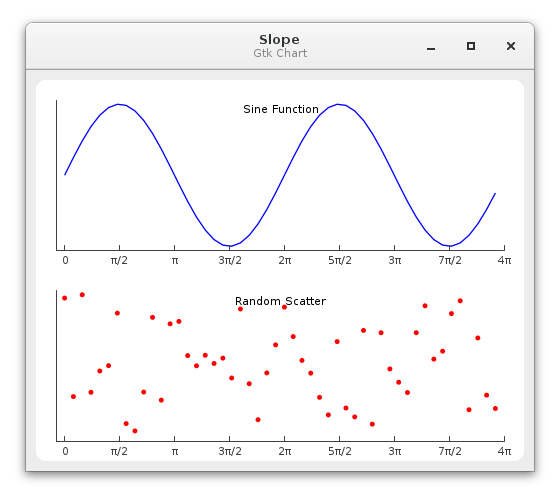
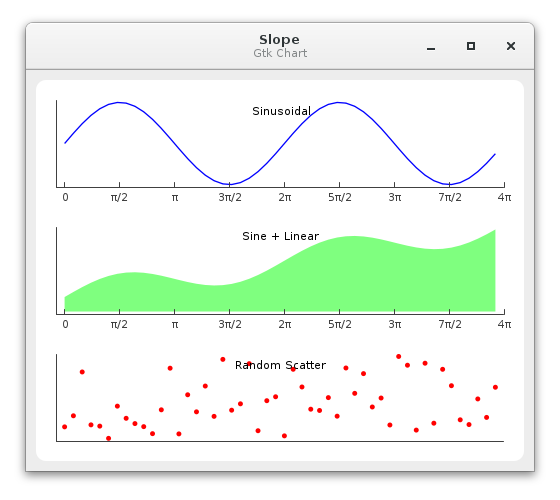
Improved long example

diff --git a/demos/complete.c b/demos/complete.c
@@ -40,11 +40,11 @@ int main(int argc, char *argv[])
 {
     GtkWidget *chart;
     SlopeFigure *figure;
-    SlopeScale *scale1, *scale2;
-    SlopeItem *series1, *series2;
+    SlopeScale *scale1, *scale2, *scale3;
+    SlopeItem *series1, *series2, *series3;
     SlopeItem *axis;
     SlopeXyAxisSampler *sampler;
-    double *x, *y1, *y2;
+    double *x, *y1, *y2, *y3;
 
     gtk_init(&argc, &argv);
     chart = slope_chart_new();
@@ -57,18 +57,20 @@ int main(int argc, char *argv[])
     x = g_malloc(n * sizeof(double));
     y1 = g_malloc(n * sizeof(double));
     y2 = g_malloc(n * sizeof(double));
+    y3 = g_malloc(n * sizeof(double));
     double dx = 4.0 * G_PI / n;
 
     for (k=0; k<n; ++k) {
         x[k] = k * dx;
         y1[k] = sin(x[k]);
-        y2[k] = g_random_int();
+        y2[k] = 1.0 + y1[k] + 0.1 * k;
+        y3[k] = g_random_int();
     }
 
     figure = slope_chart_get_figure(SLOPE_CHART(chart));
 
     scale1 = slope_xyscale_new();
-    slope_scale_set_name(scale1, "Sine Function");
+    slope_scale_set_name(scale1, "Sinusoidal");
     slope_scale_set_layout_rect(scale1, 0, 0, 1, 1);
     slope_figure_add_scale(figure, scale1);
     axis = slope_xyscale_get_axis(SLOPE_XYSCALE(scale1), SLOPE_XYSCALE_AXIS_BOTTOM);
@@ -76,22 +78,34 @@ int main(int argc, char *argv[])
     slope_xyaxis_sampler_set_samples(sampler, x_samples, 9);
 
     scale2 = slope_xyscale_new();
-    slope_scale_set_name(scale2, "Random Scatter");
+    slope_scale_set_name(scale2, "Sine + Linear");
     slope_scale_set_layout_rect(scale2, 0, 1, 1, 1);
     slope_figure_add_scale(figure, scale2);
     axis = slope_xyscale_get_axis(SLOPE_XYSCALE(scale2), SLOPE_XYSCALE_AXIS_BOTTOM);
     sampler = slope_xyaxis_get_sampler(SLOPE_XYAXIS(axis));
     slope_xyaxis_sampler_set_samples(sampler, x_samples, 9);
 
+    scale3 = slope_xyscale_new();
+    slope_scale_set_name(scale3, "Random Scatter");
+    slope_scale_set_layout_rect(scale3, 0, 2, 1, 1);
+    slope_figure_add_scale(figure, scale3);
+
     series1 = slope_xyseries_new_filled("Sine", x, y1, n, "b-");
     slope_scale_add_item(scale1, series1);
 
-    series2 = slope_xyseries_new_filled("Random", x, y2, n, "ro");
+    series2 = slope_xyseries_new_filled("Sine + Linear", x, y2, n, "ga");
     slope_scale_add_item(scale2, series2);
+
+    series3 = slope_xyseries_new_filled("Scatter", x, y3, n, "ro");
+    slope_scale_add_item(scale3, series3);
 
     slope_figure_write_to_png(figure, "figure.png", 500, 450);
     gtk_widget_show_all(chart);
     gtk_main();
+
+    g_free(x);
+    g_free(y1);
+    g_free(y2);
 
     return 0;
 }
